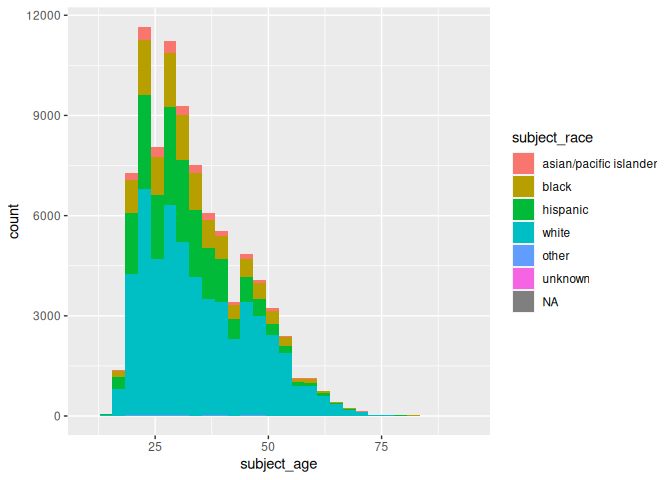
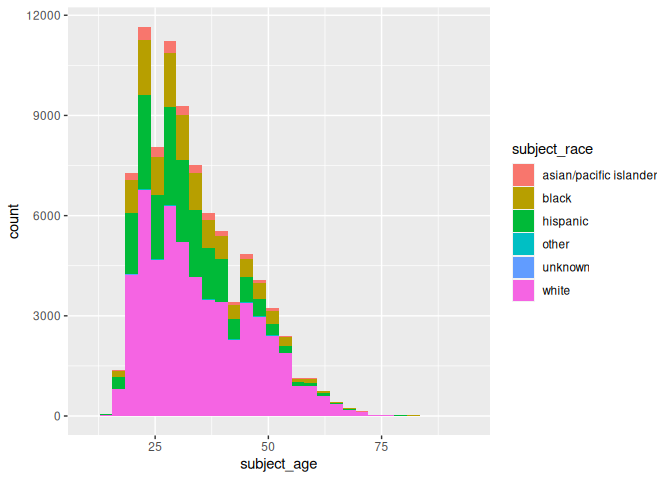
Finish c12

Changed region(s): [[0.1562, 0.375, 0.5625, 0.875], [0.75, 0.2812, 1.0, 0.6562]]

diff --git a/challenges/c12-policing-assignment.md b/challenges/c12-policing-assignment.md
@@ -244,18 +244,25 @@ hypothesis test.
 simplify_race = function(str_col) {
   str_col %>% 
     as.character() %>% 
-    replace(str_col %in% c("unknown", "A", "NA"), "NA") %>%
-    # replace(c("unknown", NA, "A", NA, "NA", NA)) %>% 
+    str_replace_all("^A$", "unknown") %>%
+    str_replace_all("None - for no operator present citations only", "unknown") %>%
+    replace_na("unknown") %>%
     str_to_lower()
 }
 
-df_data %>% 
-  drop_na(raw_Race) %>% 
-  drop_na(subject_race) %>% 
+df_clean <- df_data %>% 
   mutate(
-    is_same_race = simplify_race(raw_Race) == simplify_race(subject_race)
+    raw_Race = simplify_race(raw_Race),
+    subject_race = simplify_race(subject_race)
+  ) %>% 
+  rename(
+    raw_race = raw_Race
+  )
+
+df_clean %>%
+  mutate(
+    is_same_race = raw_race == subject_race
   ) %>%
-  drop_na() %>% 
   summarize(
     total = n(),
     num_same = sum(is_same_race),
@@ -265,9 +272,9 @@ df_data %>%
 ```
 
     ## # A tibble: 1 × 4
-    ##   total num_same num_diff perc_same
-    ##   <int>    <int>    <int>     <dbl>
-    ## 1 15866    15321      545     0.966
+    ##     total num_same num_diff perc_same
+    ##     <int>    <int>    <int>     <dbl>
+    ## 1 3416238  3238388   177850     0.948
 
 **Observations**
 
@@ -279,7 +286,7 @@ Between the two hypotheses:
 which is most plausible, based on your results?
 
 - `race_Raw` is most likely an unprocessed version of `subject_race` as
-  the percentage that is the same is extremely high, above 96 percent,
+  the percentage that is the same is extremely high, about 95 percent,
   so it likely refers to the same person as the `subject_race`.
 
 ## Vis
@@ -315,7 +322,7 @@ theme_maps <-
 ```
 
 ``` r
-df_data %>% 
+df_clean %>% 
   group_by(county_name) %>% 
   summarize(
     total = n()
@@ -337,13 +344,9 @@ df_data %>%
 ![](c12-policing-assignment_files/figure-gfm/unnamed-chunk-3-1.png)<!-- -->
 
 ``` r
-  # ggplot(aes())
-```
-
-``` r
-df_data %>%
-  filter(arrest_made == TRUE) %>%
+df_clean %>%
   group_by(subject_race) %>% 
+  filter(arrest_made == TRUE) %>%
   ggplot(aes(x = subject_age, fill = subject_race)) +
   geom_histogram()
 ```
@@ -353,6 +356,24 @@ df_data %>%
     ## Warning: Removed 2025 rows containing non-finite values (`stat_bin()`).
 
 ![](c12-policing-assignment_files/figure-gfm/unnamed-chunk-4-1.png)<!-- -->
+
+``` r
+df_clean %>%
+  drop_na(arrest_made, subject_sex) %>% 
+  group_by(subject_race, subject_sex) %>% 
+  summarize(
+    arrest_perc = sum(arrest_made) / n()
+  ) %>% 
+  ggplot(aes(x = arrest_perc, y = subject_race)) +
+  geom_col() +
+  coord_flip() +
+  facet_wrap(~ subject_sex, nrow = 2)
+```
+
+    ## `summarise()` has grouped output by 'subject_race'. You can override using the
+    ## `.groups` argument.
+
+![](c12-policing-assignment_files/figure-gfm/unnamed-chunk-5-1.png)<!-- -->
 
 **Observations**:
 
@@ -401,9 +422,9 @@ fit_q6 %>% tidy()
 **Observations**:
 
 - Which `subject_race` levels are included in fitting the model?
-  - (Your response here)
+  - White, black, hispanic
 - Which `subject_race` levels have terms in the model?
-  - (Your response here)
+  - White, hispanic
 
 You should find that each factor in the model has a level *missing* in
 its set of terms. This is because R represents factors against a
@@ -433,21 +454,49 @@ level. Therefore we can use
 ``` r
 ## TODO: Re-fit the logistic regression, but set "white" as the reference
 ## level for subject_race
-
-# fit_q7 %>% tidy()
+fit_q7 <-
+  glm(
+    formula = arrest_made ~ subject_age + subject_race + subject_sex,
+    data = df_data %>%
+      filter(
+        !is.na(arrest_made),
+        subject_race %in% c("white", "black", "hispanic")
+      ) %>%
+      mutate(
+        subject_race = relevel(factor(subject_race), ref = "white")
+      ),
+    family = "binomial"
+  )
+fit_q7 %>% tidy()
 ```
+
+    ## # A tibble: 5 × 5
+    ##   term                 estimate std.error statistic   p.value
+    ##   <chr>                   <dbl>     <dbl>     <dbl>     <dbl>
+    ## 1 (Intercept)           -3.05    0.0109      -279.  0        
+    ## 2 subject_age           -0.0142  0.000280     -50.5 0        
+    ## 3 subject_raceblack      0.380   0.0103        37.0 3.12e-299
+    ## 4 subject_racehispanic   0.893   0.00859      104.  0        
+    ## 5 subject_sexfemale     -0.755   0.00910      -83.0 0
 
 **Observations**:
 
 - Which `subject_race` level has the highest probability of being
   arrested, according to this model? Which has the lowest probability?
-  - (Your response here)
+  - Black is highest, white is lowest
 - What could explain this difference in probabilities of arrest across
   race? List **multiple** possibilities.
-  - (Your response here)
+  - There are a few possibilities, including direct racial bias,
+    confounded socioeconomic status (i.e. poorer people get arrested
+    more often and are disproportionately minority races), confounded
+    neighborhood (more crime takes place in neighborhoods that have more
+    crime and more disproportionately high percentages of minority
+    races)
 - Look at the sent of variables in the dataset; do any of the columns
   relate to a potential explanation you listed?
-  - (Your response here)
+  - Search basis combined with arrest rate may help determine if racial
+    bias was in play, to see if people with minority races were more
+    likely to be searched for “probable cause” than white counterparts.
 
 One way we can explain differential arrest rates is to include some
 measure indicating the presence of an arrestable offense. We’ll do this
@@ -458,23 +507,107 @@ in a particular way in the next task.
 ``` r
 ## TODO: Repeat the modeling above, but control for whether contraband was found
 ## during the police stop
-# fit_q8 %>% tidy()
+fit_q8 <-
+  glm(
+    formula = arrest_made ~ subject_age + subject_race + subject_sex + contraband_found,
+    data = df_data %>%
+      filter(
+        !is.na(arrest_made),
+        subject_race %in% c("white", "black", "hispanic")
+      ) %>%
+      mutate(
+        subject_race = relevel(factor(subject_race), ref = "white")
+      ),
+    family = "binomial"
+  )
+fit_q8 %>% tidy()
 ```
+
+    ## # A tibble: 6 × 5
+    ##   term                 estimate std.error statistic   p.value
+    ##   <chr>                   <dbl>     <dbl>     <dbl>     <dbl>
+    ## 1 (Intercept)           -1.72    0.0339      -50.8  0        
+    ## 2 subject_age            0.0225  0.000866     26.0  2.19e-149
+    ## 3 subject_raceblack     -0.0511  0.0270       -1.90 5.80e-  2
+    ## 4 subject_racehispanic   0.221   0.0237        9.31 1.32e- 20
+    ## 5 subject_sexfemale     -0.306   0.0257      -11.9  1.06e- 32
+    ## 6 contraband_foundTRUE   0.609   0.0192       31.7  4.29e-221
 
 **Observations**:
 
 - How does controlling for found contraband affect the `subject_race`
   terms in the model?
-  - (Your response here)
+  - It shows that the presence of contraband is a stronger indicator of
+    arrest rate, but there’s still a similar correlation in arrest rate
+    based on race for hispanic people even when controlling for found
+    contraband.
 - What does the *finding of contraband* tell us about the stop? What
   does it *not* tell us about the stop?
-  - (Your response here)
+  - This tells us that finding contraband is a stronger indicator of
+    arrest rate than race, but it does not tell us that there is no
+    racial bias.
 
 ### **q9** Go deeper: Pose at least one more question about the data and fit at least one more model in support of answering that question.
 
+Do different counties have different arrest rates?
+
+``` r
+fit_q9 <-
+  glm(
+    formula = arrest_made ~ subject_age + subject_race + subject_sex + county_name,
+    data = df_data %>%
+      filter(
+        !is.na(arrest_made),
+        subject_race %in% c("white", "black", "hispanic")
+      ) %>%
+      mutate(
+        subject_race = relevel(factor(subject_race), ref = "white"),
+        county_name = relevel(factor(county_name), ref = "Norfolk County")
+      ),
+    family = "binomial"
+  )
+fit_q9 %>% tidy()
+```
+
+    ## # A tibble: 18 × 5
+    ##    term                         estimate std.error statistic  p.value
+    ##    <chr>                           <dbl>     <dbl>     <dbl>    <dbl>
+    ##  1 (Intercept)                   -3.33    0.0172     -194.   0       
+    ##  2 subject_age                   -0.0128  0.000282    -45.5  0       
+    ##  3 subject_raceblack              0.420   0.0104       40.2  0       
+    ##  4 subject_racehispanic           0.882   0.00875     101.   0       
+    ##  5 subject_sexfemale             -0.753   0.00913     -82.6  0       
+    ##  6 county_nameBarnstable County   0.189   0.0258        7.33 2.22e-13
+    ##  7 county_nameBerkshire County   -0.155   0.0266       -5.84 5.36e- 9
+    ##  8 county_nameBristol County      0.843   0.0173       48.7  0       
+    ##  9 county_nameDukes County        0.253   0.0965        2.62 8.75e- 3
+    ## 10 county_nameEssex County        0.682   0.0168       40.7  0       
+    ## 11 county_nameFranklin County    -0.275   0.0299       -9.23 2.82e-20
+    ## 12 county_nameHampden County      0.238   0.0167       14.3  2.94e-46
+    ## 13 county_nameHampshire County   -0.257   0.0312       -8.24 1.67e-16
+    ## 14 county_nameMiddlesex County    0.248   0.0164       15.2  7.47e-52
+    ## 15 county_nameNantucket County    0.753   0.0640       11.8  6.34e-32
+    ## 16 county_namePlymouth County     0.331   0.0201       16.5  3.32e-61
+    ## 17 county_nameSuffolk County     -0.0932  0.0169       -5.51 3.55e- 8
+    ## 18 county_nameWorcester County    0.158   0.0157       10.1  6.63e-24
+
+The baseline county is Norfolk County because that’s where Olin is. No
+other logic necessary :) (don’t dock points for this)
+
 **Observations**:
 
-- Document your question and findings
+- Which counties have higher arrest rates?
+  - Bristol County and Essex county have higher arrest rates
+  - Barnstable and Dukes County are similar but slightly higher
+  - Berkshire County is lower
+- Can I make any conclusions about the counties themselves from this?
+  - Further knowledge of Massachusetts would be helpful to know what
+    makes these counties different from each other (ideally stats on
+    income, etc) but there is a reason to look more into why the arrest
+    rates are presumably higher and lower depending on county.
+- What other data would help make further conclusions?
+  - More fine-grained data about location, like city, neighborhood, and
+    time of day
 
 ## Further Reading
 
